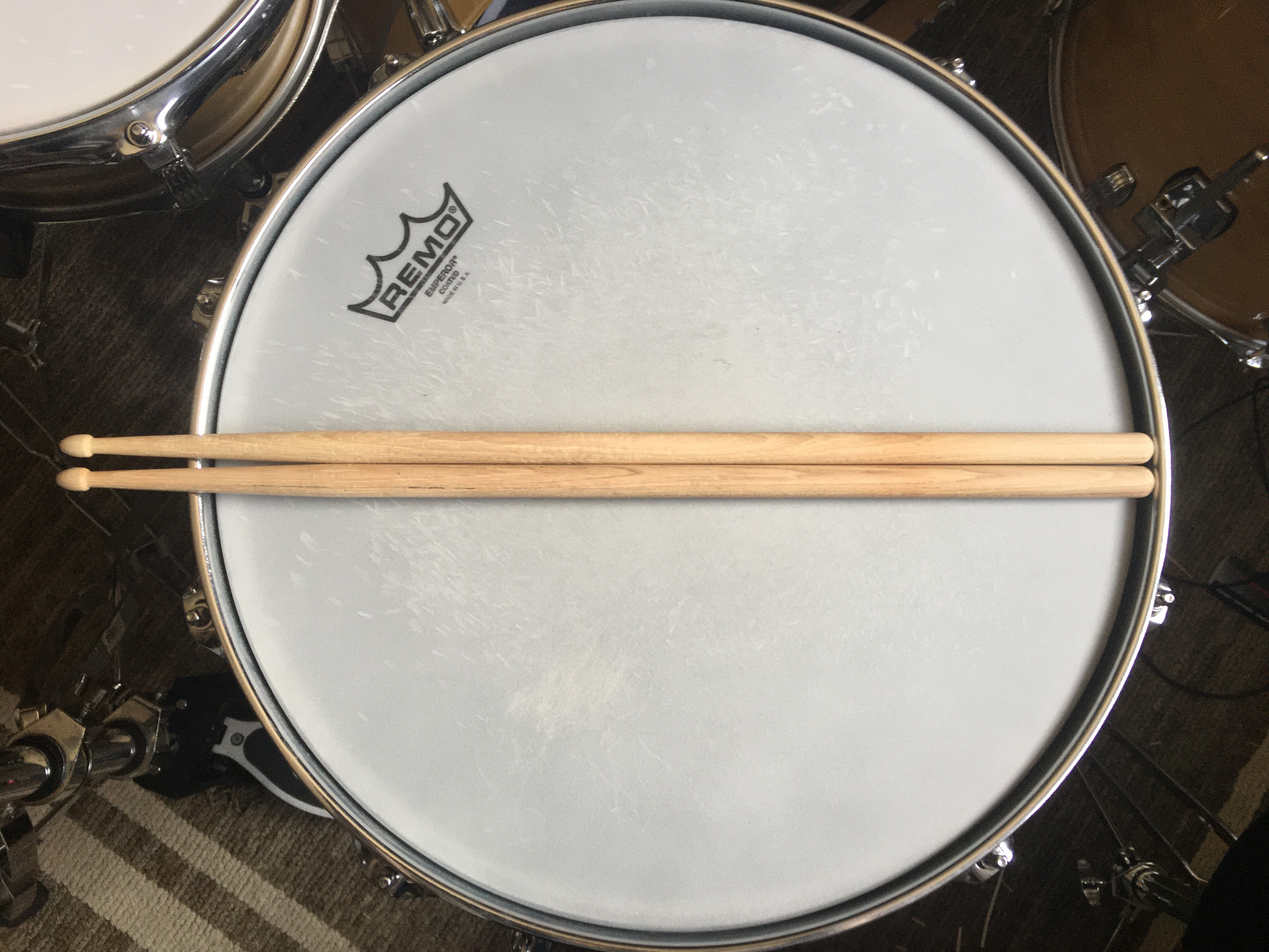
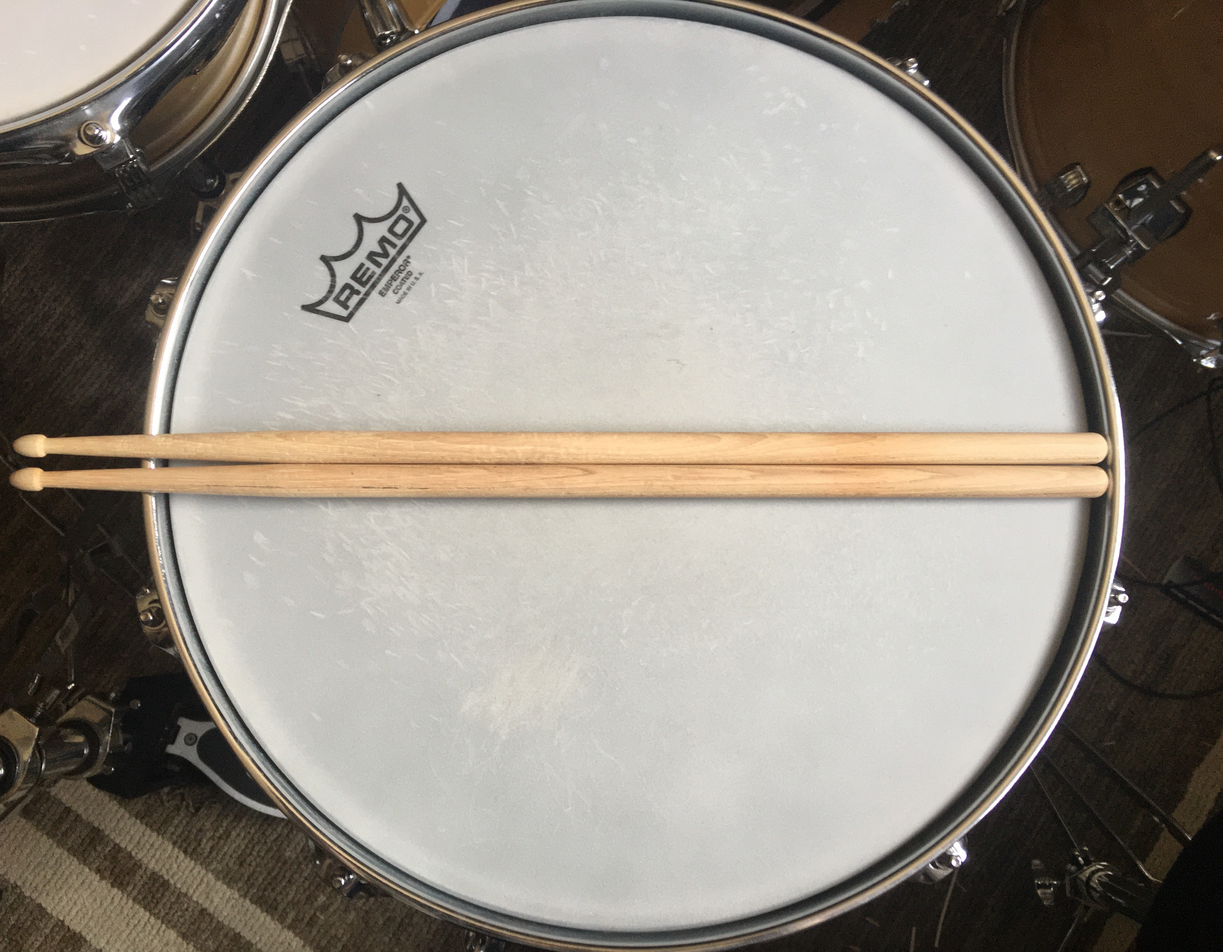
sv index test

diff --git a/saint-vrain/index.html b/saint-vrain/index.html
@@ -12,7 +12,7 @@ Saint Vrain — Home
 
 <meta charset="utf-8">
 
-<meta name="viewport" content="width=device-width, initial-scale=1.0">
+<meta name="viewport" content="initial-scale=1">
 
 <link rel="preconnect" href="https://fonts.gstatic.com"> 
 <link href="https://fonts.googleapis.com/css2?family=Carrois+Gothic+SC&display=swap" rel="stylesheet">
@@ -27,16 +27,6 @@ Saint Vrain — Home
 <link href="https://fonts.googleapis.com/css2?family=Barlow+Condensed&display=swap" rel="stylesheet">
 
 <link href="style.css" rel="stylesheet">
-
-<!-- Global site tag (gtag.js) - Google Analytics -->
-<script async src="https://www.googletagmanager.com/gtag/js?id=UA-171694271-1"></script>
-<script>
-  window.dataLayer = window.dataLayer || [];
-  function gtag(){dataLayer.push(arguments);}
-  gtag('js', new Date());
-
-  gtag('config', 'UA-171694271-1');
-</script>
 
 <meta property="og:site_name" content="Saint Vrain" />
 <meta property="og:title" content="Saint Vrain — Home" />

diff --git a/css/portfolio.css b/css/portfolio.css
@@ -7,7 +7,7 @@ html {
 
 body{
 	background-image: url('../images/main/snare.jpeg');
-	background-position: 50% 53%;
+	background-position: 53%;
 	background-repeat: no-repeat;
 	background-attachment: fixed;
 	background-size: cover;
